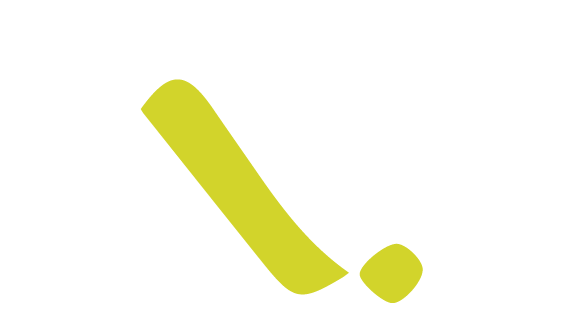
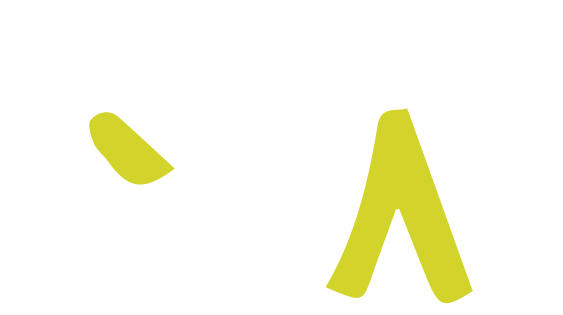
constrained half parts

Changed region(s): [[0.151, 0.2286, 0.8455, 0.9714]]

diff --git a/Rune_Maker/Rune_Maker_Half.py b/Rune_Maker/Rune_Maker_Half.py
@@ -46,12 +46,13 @@ def color_change(im,real = False,flip = False,hypo = False,imag = False):
 
 def Getnumber(num):
 
-    if num <= 27:
-        new = num
-    elif num > 54:
-        new = num - 27
-    elif num <= 54 and num >= 28:
-        new = num + 27
+    if num <= 21:
+        new = num + 21
+    elif num >= 22:
+        new = num - 21
+
+    print(num)
+    print(new)
     
     return new
     
@@ -72,20 +73,18 @@ def Variant(data):
         bnum = int(bot.rpartition('_')[-1])
         
         if mnum == 1:
-            mnew = 4
+            mnew = 3
         if mnum == 2:
             mnew = 2
         if mnum == 3:
-            mnew = 3
-        if mnum == 4:
             mnew = 1
         
         tnew_v = Getnumber(tnum)
         bnew_v = Getnumber(bnum)
         
-        top_v = 'Top_' + str(tnew_v).zfill(2)
-        mid_v = 'Mid_' + str(mnew).zfill(2)
-        bot_v = 'Bot_' + str(bnew_v).zfill(2)
+        top_v = 'Half_Top_' + str(tnew_v).zfill(2)
+        mid_v = 'Half_Mid_' + str(mnew).zfill(2)
+        bot_v = 'Half_Bot_' + str(bnew_v).zfill(2)
         
         
         
@@ -101,9 +100,9 @@ def Variant(data):
         tnew_h = bnum
         bnew_h = tnum
           
-        top_h = 'Top_' + str(tnew_h).zfill(2)
-        mid_h = 'Mid_' + str(mnew).zfill(2)
-        bot_h = 'Bot_' + str(bnew_h).zfill(2)
+        top_h = 'Half_Top_' + str(tnew_h).zfill(2)
+        mid_h = 'Half_Mid_' + str(mnew).zfill(2)
+        bot_h = 'Half_Bot_' + str(bnew_h).zfill(2)
 
         print("Horizontal Variant:",[top_h,mid_h,bot_h])
         if ((data['tops'] == top_h) & (data['mids'] == mid_h) & (data['bots'] == bot_h)).any() == True:
@@ -119,9 +118,9 @@ def Variant(data):
         bnew_vh = Getnumber(bnew_h)
         mnew_vh = mnum
         
-        top_vh = 'Top_' + str(tnew_vh).zfill(2)
-        mid_vh = 'Mid_' + str(mnew_vh).zfill(2)
-        bot_vh = 'Bot_' + str(bnew_vh).zfill(2)
+        top_vh = 'Half_Top_' + str(tnew_vh).zfill(2)
+        mid_vh = 'Half_Mid_' + str(mnew_vh).zfill(2)
+        bot_vh = 'Half_Bot_' + str(bnew_vh).zfill(2)
         
        
         print("Vertical + Horizontal Variant:",[top_vh,mid_vh,bot_vh])
@@ -160,6 +159,41 @@ broken_bot = [
     'Half_Bot_47'
 ]
 
+left_top = [
+    'Half_Top_01', 'Half_Top_02', 'Half_Top_03', 'Half_Top_04', 'Half_Top_05', 'Half_Top_06',
+    'Half_Top_07', 'Half_Top_08', 'Half_Top_09', 'Half_Top_10', 'Half_Top_11', 'Half_Top_12',
+    'Half_Top_13', 'Half_Top_14', 'Half_Top_15', 'Half_Top_16', 'Half_Top_17', 'Half_Top_18', 
+    'Half_Top_19', 'Half_Top_20', 'Half_Top_21', 'Half_Top_22', 'Half_Top_23', 'Half_Top_24',
+    'Half_Top_25'
+]
+
+left_bot = [
+    'Half_Bot_01', 'Half_Bot_02', 'Half_Bot_03', 'Half_Bot_04', 'Half_Bot_05', 'Half_Bot_06',
+    'Half_Bot_07', 'Half_Bot_08', 'Half_Bot_09', 'Half_Bot_10', 'Half_Bot_11', 'Half_Bot_12',
+    'Half_Bot_13', 'Half_Bot_14', 'Half_Bot_15', 'Half_Bot_16', 'Half_Bot_17', 'Half_Bot_18', 
+    'Half_Bot_19', 'Half_Bot_20', 'Half_Bot_21', 'Half_Bot_22', 'Half_Bot_23', 'Half_Bot_24',
+    'Half_Bot_25'
+]
+
+right_top = [
+    'Half_Top_26', 'Half_Top_27', 'Half_Top_28', 'Half_Top_29', 'Half_Top_30', 'Half_Top_31',
+    'Half_Top_32', 'Half_Top_33', 'Half_Top_34', 'Half_Top_35', 'Half_Top_36', 'Half_Top_37',
+    'Half_Top_38', 'Half_Top_39', 'Half_Top_40', 'Half_Top_41', 'Half_Top_42', 'Half_Top_43', 
+    'Half_Top_44', 'Half_Top_45', 'Half_Top_46', 'Half_Top_47', 'Half_Top_48', 'Half_Top_49',
+    'Half_Top_50'
+]
+
+right_bot = [
+    'Half_Bot_26', 'Half_Bot_27', 'Half_Bot_28', 'Half_Bot_29', 'Half_Bot_30', 'Half_Bot_31',
+    'Half_Bot_32', 'Half_Bot_33', 'Half_Bot_34', 'Half_Bot_35', 'Half_Bot_36', 'Half_Bot_37',
+    'Half_Bot_38', 'Half_Bot_39', 'Half_Bot_40', 'Half_Bot_41', 'Half_Bot_42', 'Half_Bot_43', 
+    'Half_Bot_44', 'Half_Bot_45', 'Half_Bot_46', 'Half_Bot_47', 'Half_Bot_48', 'Half_Bot_49',
+    'Half_Bot_50'
+
+]
+
+
+
 real_top = ['Half_Top_02','Half_Top_01']
 real_mid = ['Half_Mid_01','Half_Mid_02']
 real_bot = ['Half_Bot_01','Half_Bot_03']
@@ -187,7 +221,7 @@ for i in range(len(top)):
                 #if this is in the database it shouldn't be saved
                 
                 print(top[i],mid[j],bot[k])
-                
+
                 if ((data['tops'] == top[i]) & (data['mids'] == mid[j]) & (data['bots'] == bot[k])).any() == True:
                     save_dir = 'Half/Real/'
                     real = color_change(img,real = True)
@@ -199,11 +233,19 @@ for i in range(len(top)):
                     print("This rune would break the rules!")
                     continue
                 
-                if mid[j] == 'Half_Mid_01' and i > 26 and k > 26:
+                if top[i] in left_top and bot[k] not in left_bot:
+                    print("This rune would break the rules!")
+                    continue
+
+                if top[i] in right_top and bot[k] not in right_bot:
+                    print("This rune would break the rules!")
+                    continue
+
+                if mid[j] == 'Half_Mid_01' and (top[i] not in left_top or bot[k] not in left_bot):
                     print("This rune would break the rules!")
                     continue
                 
-                if mid[j] == 'Half_Mid_04' and i < 26 and k < 26:
+                if mid[j] == 'Half_Mid_04' and (top[i] not in right_top or bot[k] not in right_bot):
                     print("This rune would break the rules!")
                     continue
                 

diff --git a/Part_Maker/Part-Maker_Half.py b/Part_Maker/Part-Maker_Half.py
@@ -72,7 +72,7 @@ for i,value in enumerate(top, start = 0):
     save_name = dir + "Bottoms/" + bot_name + ".png"
     cv2.imwrite(save_name,bot)
 
-    flip_num = num[i] + 25
+    flip_num = num[i] + 21
     print(flip_num)
     top = cv2.flip(im, 1)
 
